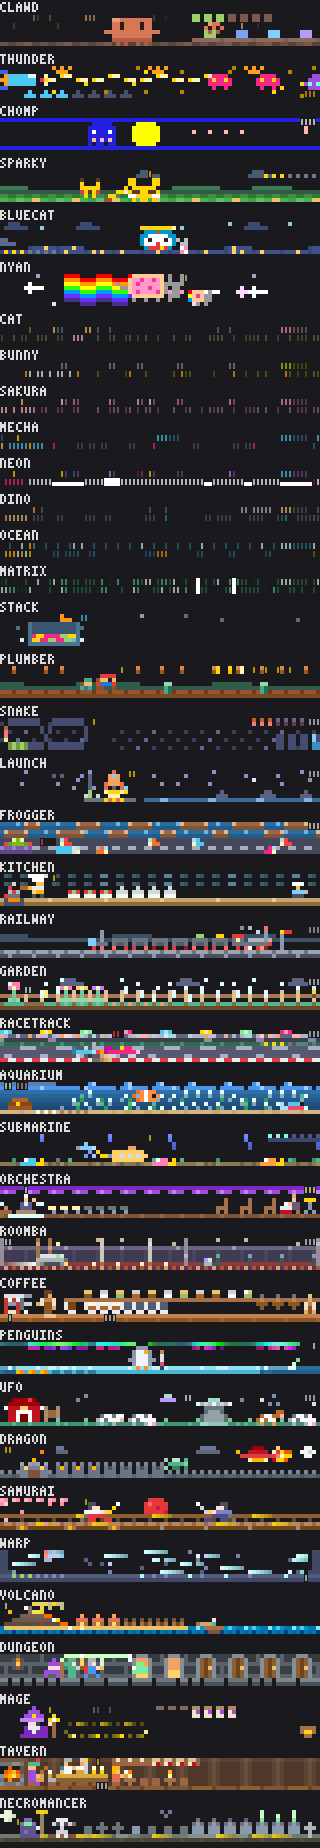
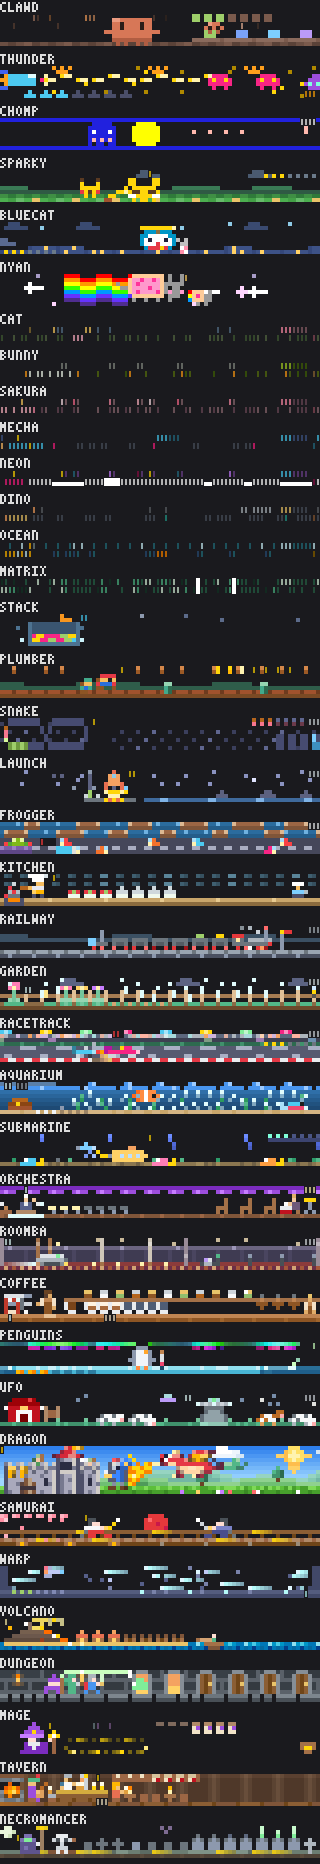
showtime: dragon pilot — docs and gallery

diff --git a/showtime/README.en.md b/showtime/README.en.md
@@ -38,7 +38,7 @@ Pixel-art scenes, four rows of half-block pixels:
 - `coffee`: a barista behind a wooden counter beside a red espresso machine, jars on the shelf behind; he wipes the counter thinking, works the machine in a tool (it steams on bash, drips on edit), a glass mug per task fills as it lands, a barista per subagent, a failed test tips a cup into a spreading puddle, a commit lifts a latte-art heart.
 - `penguins`: penguins huddled on an ice floe under a shimmering aurora, waves rolling past; they waddle while thinking, look up when a permission waits and fish through holes in the ice while tools run, a fish leaping in the tool's colour; a penguin per subagent, one belly-slides for each finished task, a failed test cracks the floe in two, a commit is a fish tossed and gulped.
 - `ufo`: a flying saucer hovering over a farm at night, its rim lights chasing, a barn and a fence under twinkling stars; a cow per task is beamed up as it lands, a beam sweeps the field in the tool's colour while tools run (wide on bash), a small saucer per subagent, a failed test crash-lands it in smoke, a commit zips it off and back.
-- `dragon`: a red dragon flying a figure-eight over a castle, beating its gold wings, the moon and clouds behind and embers off the keep's brazier; a tower per task lights its window as it lands, it breathes fire on bash (sparks in the tool's colour otherwise), a wyvern per subagent trails it, a failed test is an arrow that makes it dip in a puff, a commit lands it on the keep to roar.
+- `dragon`: a sunny 16-bit castle scene with a red-roofed tower where the princess looks out, archers on the walls, a knight on the grass and a red dragon patrolling the sky; set pieces rotate (a strafe, the knight's charge, a tower swoop, the catapult, a landing roar, a sheep raid) with rare surprises (the princess with a frying pan, a Clawd cameo on horseback, a hatchling); it breathes fire on bash while the knight raises his shield (sparks in the tool's colour otherwise), the princess waves on ask, jaws and sound rings on say, a banner per task that unfurls gold when done, a wyvern per subagent trailing it; a passed test fires fireworks from the castle, a failed one knocks the knight down seeing stars, a commit is a royal roar with the tower's banner unfurled and confetti.
 - `samurai`: a duel on a wooden bridge under a red moon, blossom dropping petals onto the deck, hero and rival breathing in their stances; each tool call is a slash in the tool's colour (bash cuts twice), a lantern per task is lit along the bridge, a rival per subagent (three at most), a failed test staggers the hero back in a burst of petals, a commit sees him sheathe his blade and bow.
 - `warp`: a starship's bridge looking out of its viewport, distant stars twinkling and near stars streaming past (dots while it thinks, lines on a tool, long warp lines on bash, in the tool's colour); a console light per task is lit and a planet slides past as one lands, an escort ship per subagent flies in formation, a scan line sweeps the view while it thinks, the shields go up while a permission waits, a failed test flares them red and jolts the bridge, a passed test glows them green, a commit sees a space station grow in the middle.
 - `volcano`: an island volcano smoking over a scrolling sea, a lava glow shimmering on its cone; each tool sends lava down the slope pulsing in the tool's colour (bash faster and brighter, throwing sparks), a hut per task on the shore gets its roof when done, a rowing boat per subagent, a failed test erupts rocks under a reddening sky, a commit hangs a rainbow over the island.
